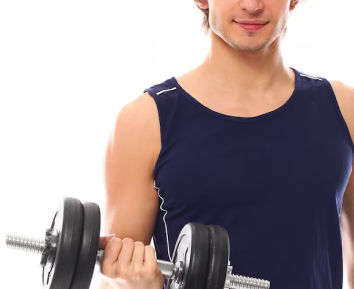
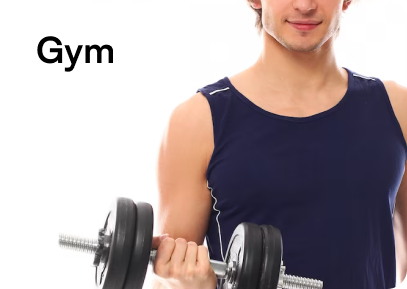
fifth section added

diff --git a/index.html b/index.html
@@ -116,25 +116,25 @@
         <div class="products">
             <div class="product1">
                 <img src="img/Vertical Striped Shirt.png" alt="">
-                <h3>T-shirt with Tape Details</h3>
+                <h3>Vertical Striped Shirt</h3>
                 <div class="rating"></div>
                 <div class="price">$212</div>
             </div>
             <div class="product2">
                 <img src="img/Courage Graphic T-shirt.png" alt="">
-                <h3>Skinnt Fit Jeans</h3>
+                <h3>Courage Graphic T-shirt</h3>
                 <div class="rating"></div>
                 <div class="price">$145</div>
             </div>
             <div class="product3">
                 <img src="img/Shorts.png" alt="">
-                <h3>Checkered Shirt</h3>
+                <h3>Loose Fit Bermuda Shorts</h3>
                 <div class="rating"></div>
                 <div class="price">$80</div>
             </div>
             <div class="product4">
                 <img src="img/Faded Skinny Jeans.png" alt="">
-                <h3>Sleeve Striped T-shirt</h3>
+                <h3>Faded Skinny Jeans</h3>
                 <div class="rating"></div>
                 <div class="price">$210</div>
             </div>
@@ -142,7 +142,70 @@
             <button class="view-all">View All</button>
     </div>
 
+    <div class="style-section">
+        <div class="heading">
+            BROWSE BY DRESS STYLE
+        </div>
+        <div class="one-style-cards">
+            <div class="casual">
+                <img src="img/Casual.png" alt="">
+            </div>
+            <div class="formal">
+                <img src="img/Formal.png" alt="">
+            </div>
+        </div>
+        <div class="two-style-cards">
+            <div class="party">
+                <img src="img/party.png" alt="">
+            </div>
+            <div class="gym">
+                <img src="img/Gym.png" alt="">
+            </div>
+        </div>
+    </div>
+
     
+    <div class="fifth-section">
+        <div class="happy-customers">
+            <div class="heading">OUR HAPPY CUSTOMERS</div>
+            <div><P>&loarr; &#8702;</P></div>
+        </div>
+        <div class="reviews">
+            <div class="card-one">
+                <div class="rating"></div>
+                <div class="name">
+                    <h5>Sarah M.</h5>
+                    <p>&#10003;</p>
+                </div>
+                <div class="text">
+                    <p>"I'm blown away by the quality and style of the clothes I received from Shop.co. From casual wear to elegant dresses, every piece I've bought has exceeded my expectations.”</p>
+                </div>
+            </div>
+
+            <div class="card-one">
+                <div class="rating"></div>
+                <div class="name">
+                    <h5>Sarah M.</h5>
+                    <p>&#10003;</p>
+                </div>
+                <div class="text">
+                    <p>"I'm blown away by the quality and style of the clothes I received from Shop.co. From casual wear to elegant dresses, every piece I've bought has exceeded my expectations.”</p>
+                </div>
+            </div>
+
+            <div class="card-one">
+                <div class="rating"></div>
+                <div class="name">
+                    <h5>Sarah M.</h5>
+                    <p>&#10003;</p>
+                </div>
+                <div class="text">
+                    <p>"I'm blown away by the quality and style of the clothes I received from Shop.co. From casual wear to elegant dresses, every piece I've bought has exceeded my expectations.”</p>
+                </div>
+            </div>
+            
+        </div>
+    </div>
     
    
 </body>

diff --git a/style.css b/style.css
@@ -206,7 +206,7 @@ header{
     flex-direction: column;
     justify-content: center;
     align-items: center;
-    padding: 4vmax 7vmax;
+    margin: 4vmax 7vmax;
     justify-content: space-evenly;
 }
 .heading{
@@ -221,10 +221,10 @@ header{
 .products{
         display: flex;
         flex-direction: row;
-        align-items: center;
-        justify-content: center;
-        gap: 5vmax;
-        padding: 3vmax 3vmax 2vmax 3vmax;
+        justify-content: space-evenly;
+        flex-wrap: wrap;
+        gap: 3vmax;
+        padding: 3vmax 0 3vmax 0;
 }
 
 .new-arrivals .product1{
@@ -272,4 +272,105 @@ header{
     align-items: center;
     margin-left: 7vmax;
     margin-right: 7vmax;
+    color: grey;
+}
+
+.style-section {
+    display: flex;
+    flex-direction: column;
+    align-items: center;
+    background-color: #F0F0F0;
+    margin: 2vmax 7vmax;
+    border-radius: 2vmax;
+    height: 45vmax;
+}
+
+.style-section  .heading {
+    display: flex;
+    flex-direction: row;
+    font-family: Integral CF;
+    font-size: 2vmax;
+    font-weight: 700;
+    margin: 3vmax;
+}
+
+.style-section .one-style-cards {
+    display: flex;
+    flex-direction: row;
+    flex-wrap: wrap;
+    gap: 2vmax;
+}
+
+
+.style-section .two-style-cards {
+    display: flex;
+    flex-direction: row;
+    flex-wrap: wrap;
+    gap: 2vmax;
+    margin-top: 1.5vmax;
+}
+
+.style-section img{
+    height: 15vmax;
+    border-radius: 1.5vmax;
+}
+
+.products img{
+    height: 15vmax;
+}
+
+.fifth-section{
+    display: flex;
+    flex-direction: column;
+    margin: 3vmax 7vmax;
+}
+
+.happy-customers{
+    display: flex;
+    flex-direction: row;
+    gap: 40vmax;
+}
+
+.fifth-section p{
+    color: black;
+    font-size: 2.5vmax;
+}
+
+.reviews{
+    display: flex;
+    flex-direction: row;
+    gap: 3vmax;
+}
+
+.card-one{
+    width: 25vmax;
+    height: 15vmax;
+    border: solid;
+    border-width: 0.1vmax;
+    border-radius: 1.5vmax;
+    margin-top: 4vmax;
+    border-color: black;
+}
+
+.card-one .name{
+    display: flex;
+    flex-direction: row;
+    align-items: center;
+    gap: 0.3vmax;
+    padding-top: 2vmax;
+    padding-left: 1vmax;
+}
+
+.card-one .name p{
+   font-size: 1vmax;
+}
+
+.card-one .text{
+    font-size: 1vmax;
+    padding: 0vmax
+}
+
+.card-one .text p{
+    font-size: 1vmax;
+    padding: 1vmax 1vmax;
 }
